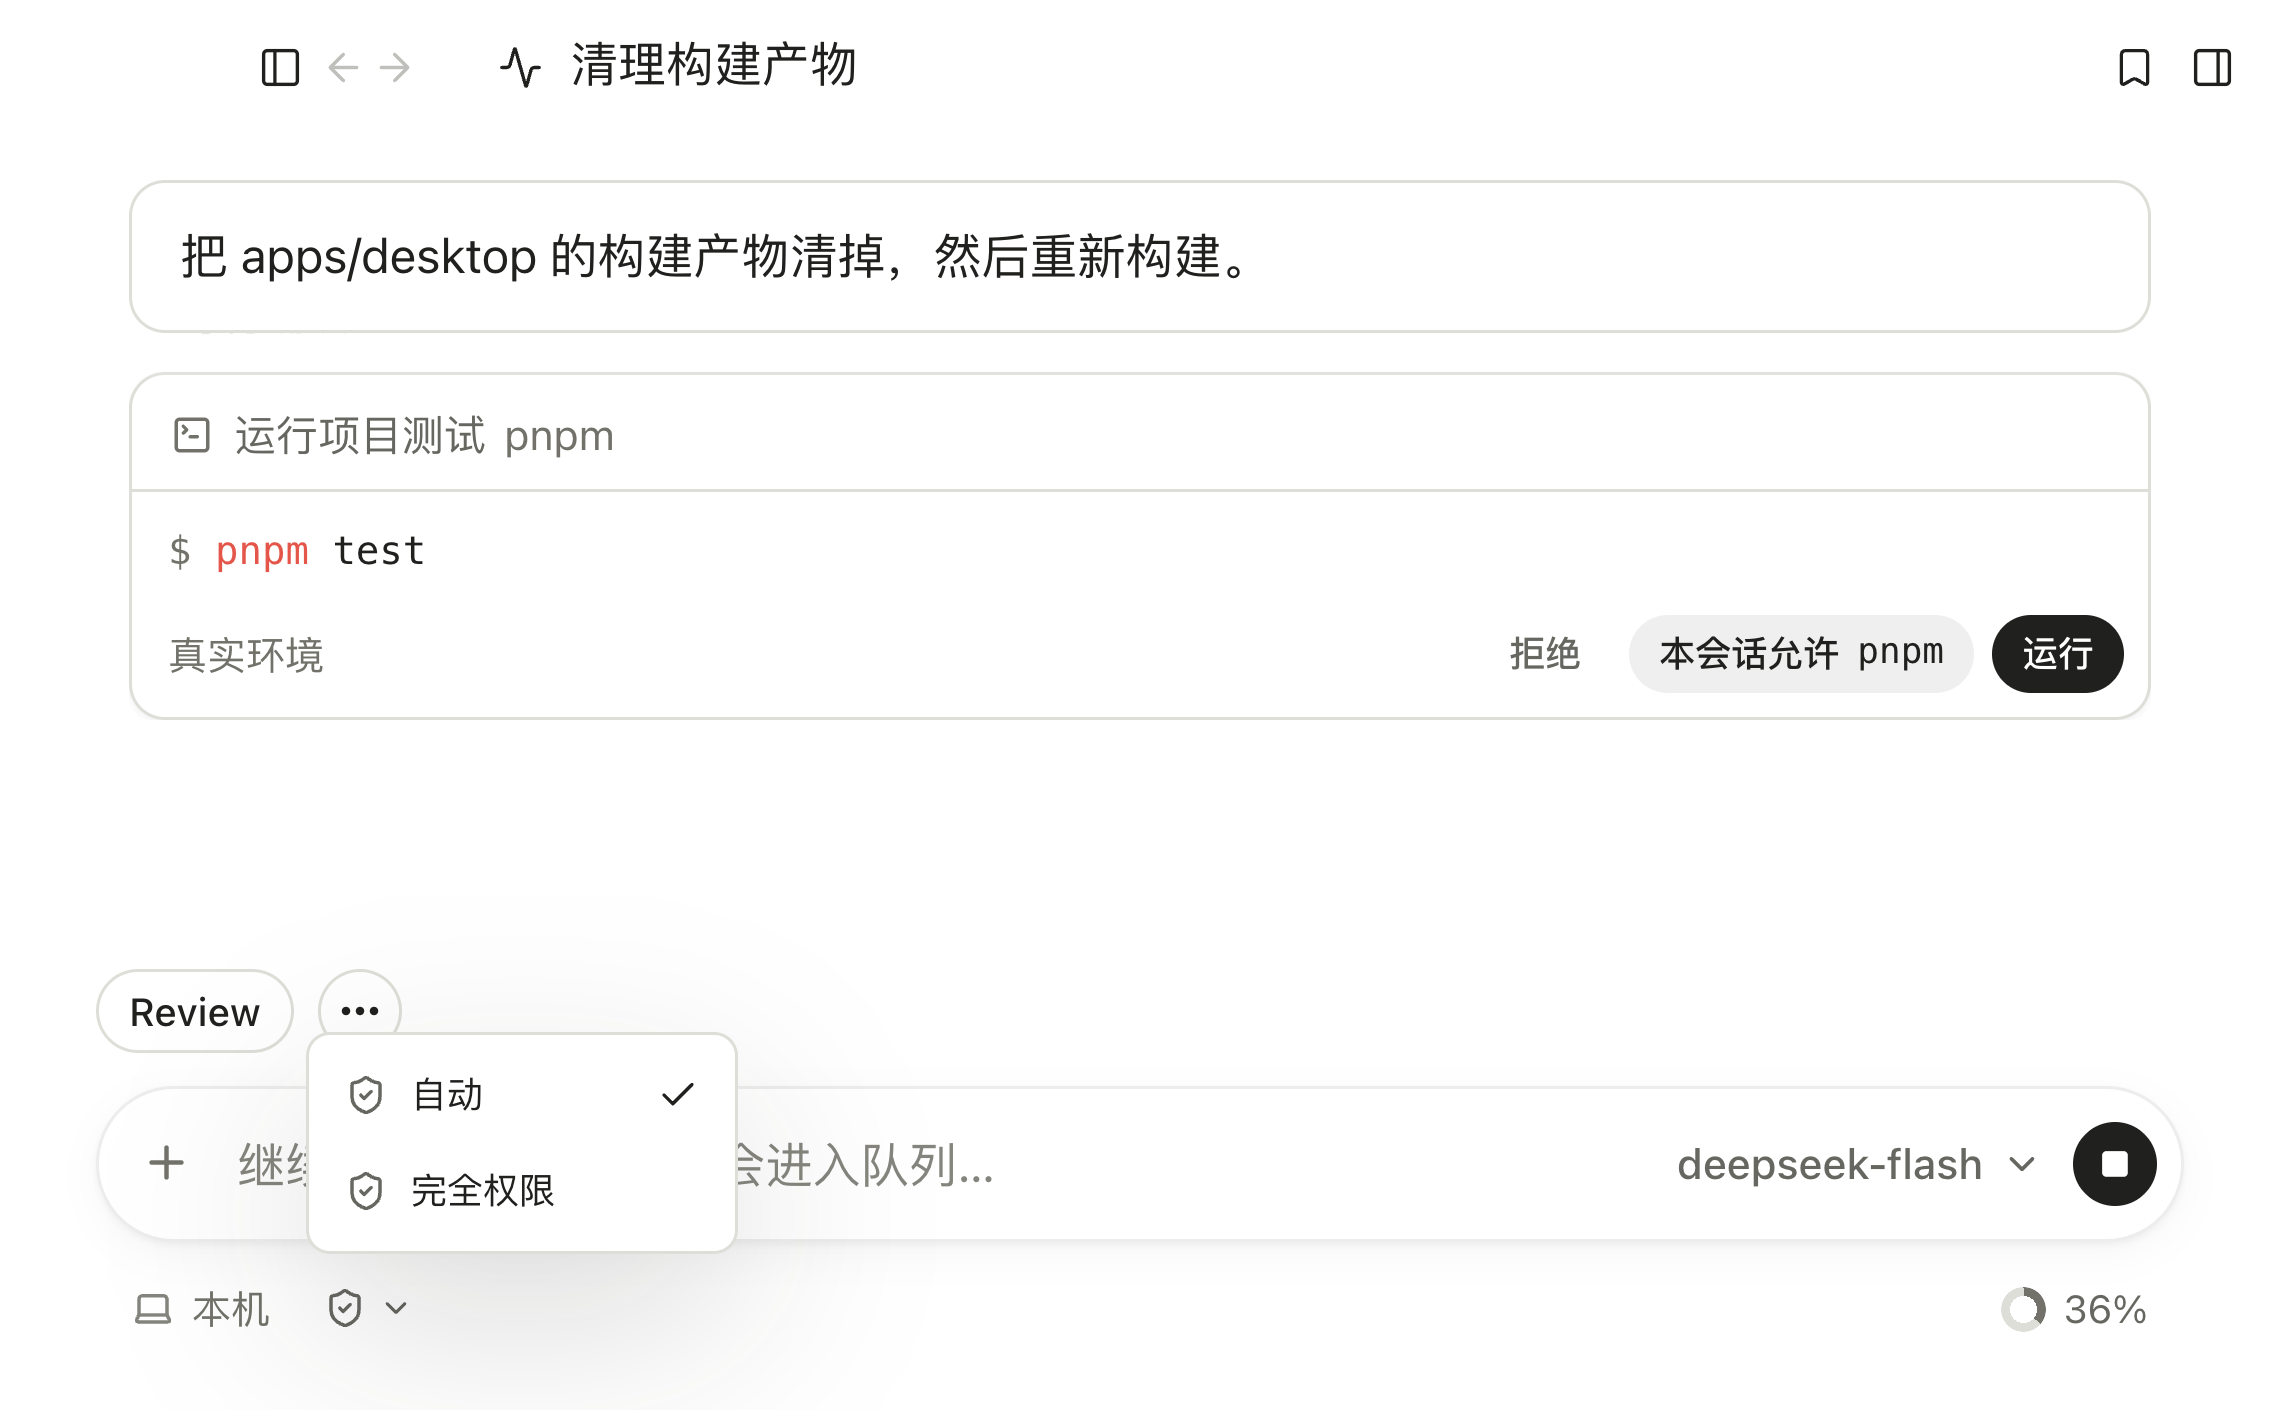
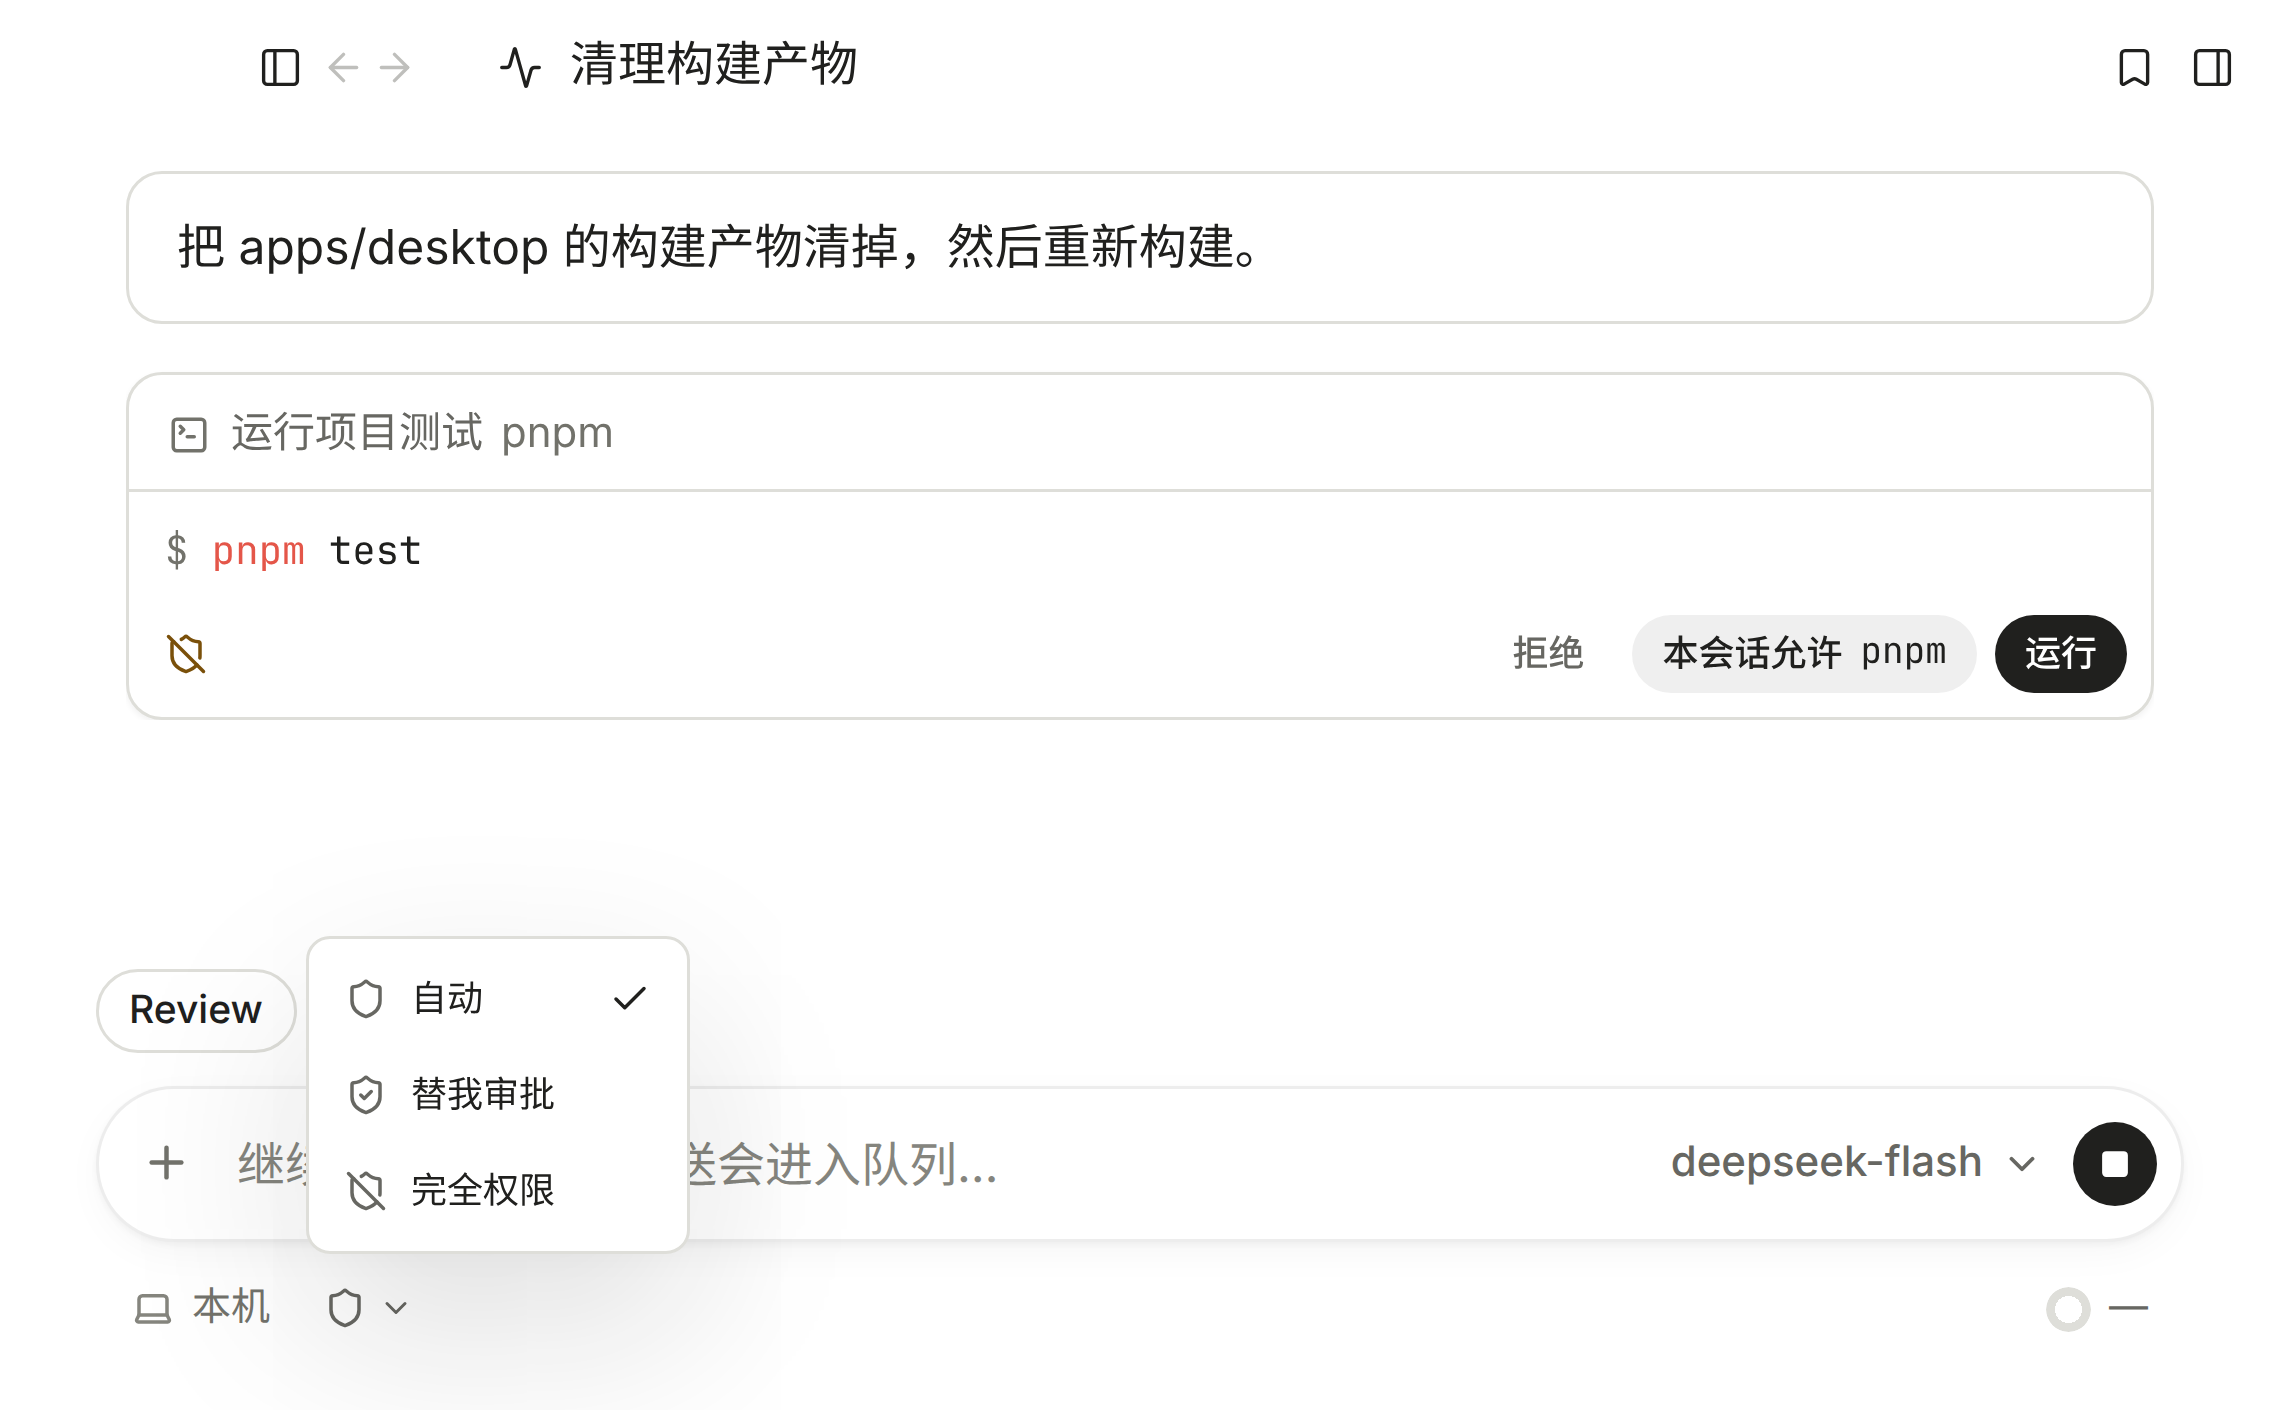
site: 重拍过期的审批截图（当前审批卡与权限菜单），文档审批图改为同源裁切

diff --git a/apps/site/src/lib/home-features.ts b/apps/site/src/lib/home-features.ts
@@ -44,7 +44,7 @@ export const trajectoryPoints: FocusPoint[] = [
 export const approvalPoints: FocusPoint[] = [
   { title: '确认后才执行', detail: '命令原样列出，标明在沙盒还是真实环境里跑。', rect: [0.05, 0.255, 0.89, 0.26] },
   { title: '按命令放行', detail: '同类命令可在本会话放行，换个会话重新问。', rect: [0.645, 0.425, 0.29, 0.08] },
-  { title: '权限模式', detail: '「完全权限」不再逐条确认，硬性安全检查照旧生效。', rect: [0.125, 0.72, 0.205, 0.245] },
+  { title: '权限模式', detail: '「替我审批」让模型先把关，「完全权限」不再逐条确认，硬性安全检查照旧生效。', rect: [0.125, 0.655, 0.185, 0.245] },
 ];
 
 export const contextPoints: FocusPoint[] = [

diff --git a/docs/histories/2026-11/20261110-0055-site-home-polish.md b/docs/histories/2026-11/20261110-0055-site-home-polish.md
@@ -30,6 +30,7 @@
 - **审批卡二次校对**：对照渲染进程 `ApprovalActions`（拒绝 → 有授权建议时的「本会话允许 <前缀>」→ 工具动词）和 `?mock=approval-prefix` 场景，把「本会话允许 `pnpm`」加回首屏审批卡；底栏左侧仍是执行环境图标。之前真实运行里没出现这颗按钮是因为那次命令没有授权建议，不是产品去掉了。
 - **收起侧栏的标题栏**：1400px 以下侧栏收起后，标题前补上桌面端的「展开侧栏」和前进后退图标（`.nav-ic`）。
 - **方向卡图标**：`Direction` 新增 `icon` 字段，`DirectionStrip.astro` 在状态行下渲染 38px 纸面图标块（层叠 / 分支 / 多人），和基础功能卡同一套画法。
+- **重拍过期截图**：`home/approval.png` 还是旧版审批卡（底栏「真实环境」文字、权限菜单只有两项），按 `SCREENSHOTS.md` 的参数用 puppeteer-core 从 `?mock=approval-prefix` 重拍（Linux 上先用 fontconfig 把 PingFang / -apple-system 别名到 Noto Sans CJK SC / Inter，和其他 macOS 截图字体一致），重新量了「权限模式」要点的 `rect`，文案补上「替我审批」。文档页的 `docs/tool-approval.png` 原是英文旧界面，改为从新图裁出的审批卡，`tools-and-approvals.md` 图注同步。其他四张（交付、轨迹、上下文、Space）和当前渲染进程逐帧比对后没有差异，不换。
 - **文档同步**：`apps/site/DESIGN.md` 更新字体、首屏（含真实界面校对后的窗口内容）、功能块、基础功能和响应式描述。
 
 ### 🧠 Design Intent (Why)
@@ -45,3 +46,7 @@
 - `apps/site/src/scripts/home-stage.ts`
 - `apps/site/src/styles/home.css`
 - `apps/site/DESIGN.md`
+- `apps/site/SCREENSHOTS.md`、`apps/site/src/assets/screenshots/README.md`
+- `apps/site/src/assets/screenshots/home/approval.png`、`apps/site/src/assets/screenshots/docs/tool-approval.png`
+- `apps/site/src/content/docs/tools-and-approvals.md`
+- `apps/site/src/components/home/DirectionStrip.astro`

diff --git a/apps/site/SCREENSHOTS.md b/apps/site/SCREENSHOTS.md
@@ -12,7 +12,7 @@
 | --- | --- |
 | `home/turn-deliverables.png` | `mock=turn-deliverables`，820×2000 CSS、DPR3、侧栏收起；从第二轮用户消息裁到第三轮用量胶囊下方 |
 | `home/trajectory.png` | `mock=long-session&trajectoryFixture=complete`，点「查看执行轨迹」，940×760、DPR3、侧栏收起；`docs/trajectory-inspector.png` 是同一张 |
-| `home/approval.png` | `mock=approval-prefix`，760×470、DPR3、侧栏收起，用 pointer 事件打开「会话权限模式」菜单 |
+| `home/approval.png` | `mock=approval-prefix`，760×470、DPR3（该宽度下侧栏自动隐藏），用 pointer 事件打开「会话权限模式」菜单。2026-11-10 在 Linux 上用 puppeteer-core 重拍：审批卡底栏的「真实环境」文字已改成执行环境图标，权限菜单多了「替我审批」；Linux 上要先用 fontconfig 把 `PingFang SC` → `Noto Sans CJK SC`、`-apple-system` → `Inter` 别名，否则字体和其他几张 macOS 截图对不上 |
 | `home/context-panel.png` | `mock=long-session`，localStorage `actspace.workbench.layout.v1` 设 `rightWidth: 440`，1440×1400 视口（矮了统计格会挤），折叠工具与会话内容分组，只裁右侧面板列；`docs/context-panel.png` 是它切成左右两栏 |
 | `home/space.png` | 点侧栏「支付链路提速」，1060×800、DPR3、侧栏收起 |
 | `docs/workspace-overview.png` | `mock=turn-deliverables`，1440×900、DPR2，侧栏展开 |

diff --git a/apps/site/src/assets/screenshots/README.md b/apps/site/src/assets/screenshots/README.md
@@ -2,6 +2,6 @@
 
 首页PNG保留必要全景，`docs/`存放文档重点裁剪。原始截图保留在交付归档，不覆盖用户文件。
 
-当前18种画面已接入；新增`docs/file-preview.png`和`docs/tool-approval.png`从同一张用户原图裁剪。模型选择与思考档位共用`docs/model-picker.png`，用量明细共用`docs/usage.png`，正文不重复展示。旧`reasoning-picker.png`保留但不再引用。
+当前18种画面已接入；新增`docs/file-preview.png`从用户原图裁剪；`docs/tool-approval.png` 2026-11-10 起改从 `home/approval.png`（渲染进程 mock，示例数据）裁出审批卡。模型选择与思考档位共用`docs/model-picker.png`，用量明细共用`docs/usage.png`，正文不重复展示。旧`reasoning-picker.png`保留但不再引用。
 
 待补2张及合并规则见[截图清单](../../../SCREENSHOTS.md)，状态见`src/lib/screenshots.json`。旧命名素材不等同于新版功能证据，不能按文件名直接填补占位。

diff --git a/apps/site/src/content/docs/tools-and-approvals.md b/apps/site/src/content/docs/tools-and-approvals.md
@@ -17,9 +17,9 @@ draft: false
 
 批准作用于对应的工具调用。当前机制不提供跨会话永久生效的“允许同类命令”清单；历史博客中讨论的 allowList 属于当时的设计研究。
 
-![Bash 审批卡片与操作入口（截图中的命令已脱敏）](../../assets/screenshots/docs/tool-approval.png)
+![Bash 审批卡片：命令、执行环境图标，以及拒绝、本会话允许、运行三个操作（示例数据）](../../assets/screenshots/docs/tool-approval.png)
 
-*Bash 审批卡片与操作入口（截图中的命令已脱敏）。*
+*Bash 审批卡片：命令原样列出，左下角图标标明在沙盒还是真实环境里执行；右侧是拒绝、本会话允许同前缀命令、运行一次（示例数据）。*
 
 ## 为什么允许后仍可能失败
 
